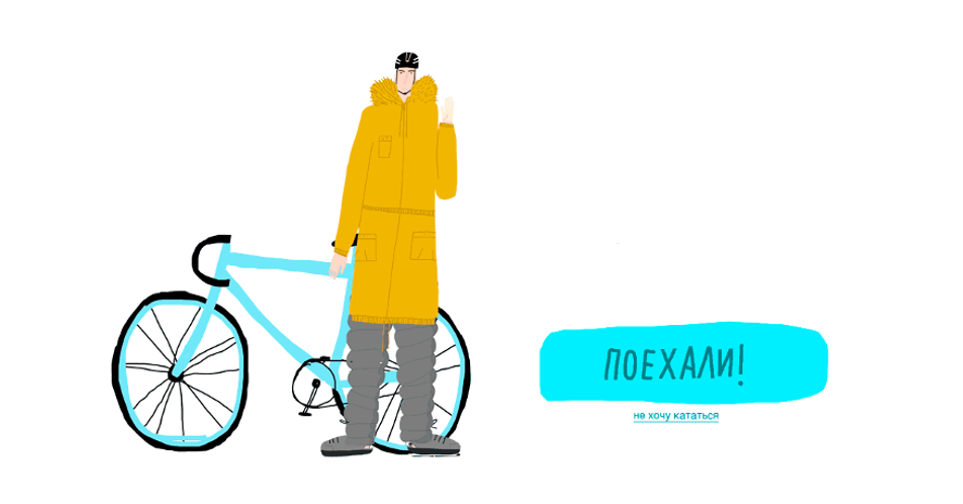
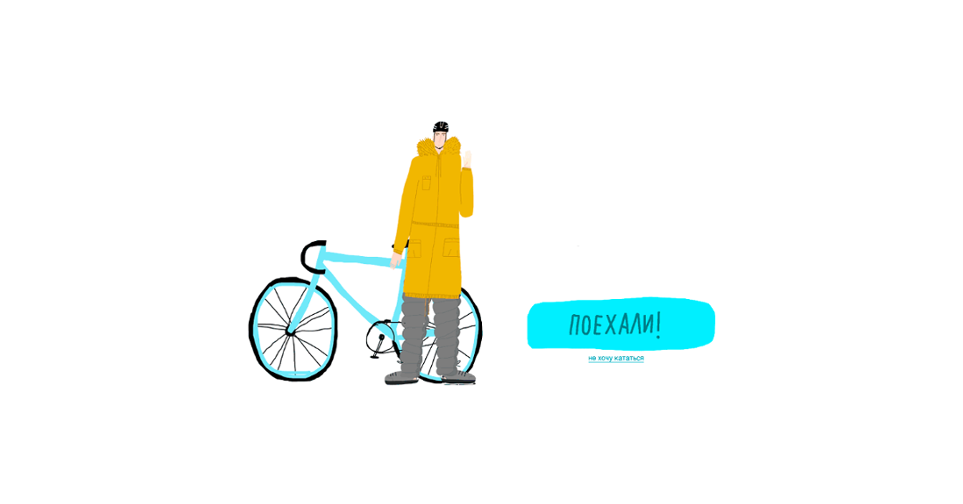
fb share final

Changed region(s): [[0.0935, 0.0893, 0.4984, 0.9226], [0.5296, 0.5655, 0.8723, 0.8631]]

diff --git a/index.html b/index.html
@@ -15,7 +15,7 @@
         <link rel="stylesheet" href="css/normalize.css">
         <link rel="stylesheet" href="css/main.css">
         <script src="js/vendor/modernizr-2.8.3.min.js"></script>
-        <meta property="og:image" content="http://russiansummer2016.ru/img/fb_preview.png" />
+        <meta property="og:image" content="http://russiansummer2016.ru/img/fb_preview_new.png" />
         <meta property="og:description"  content="Гайд, как быть готовым к этому лету."
     </head>
     <body>
